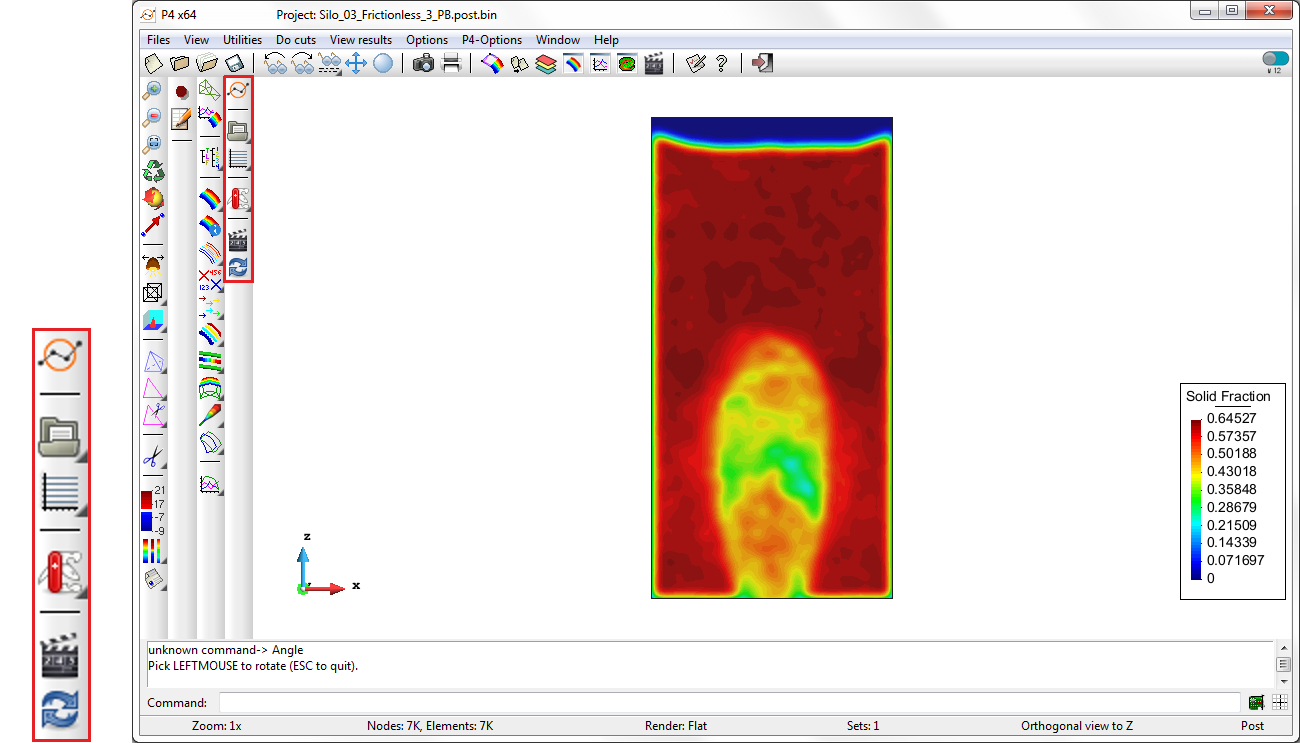
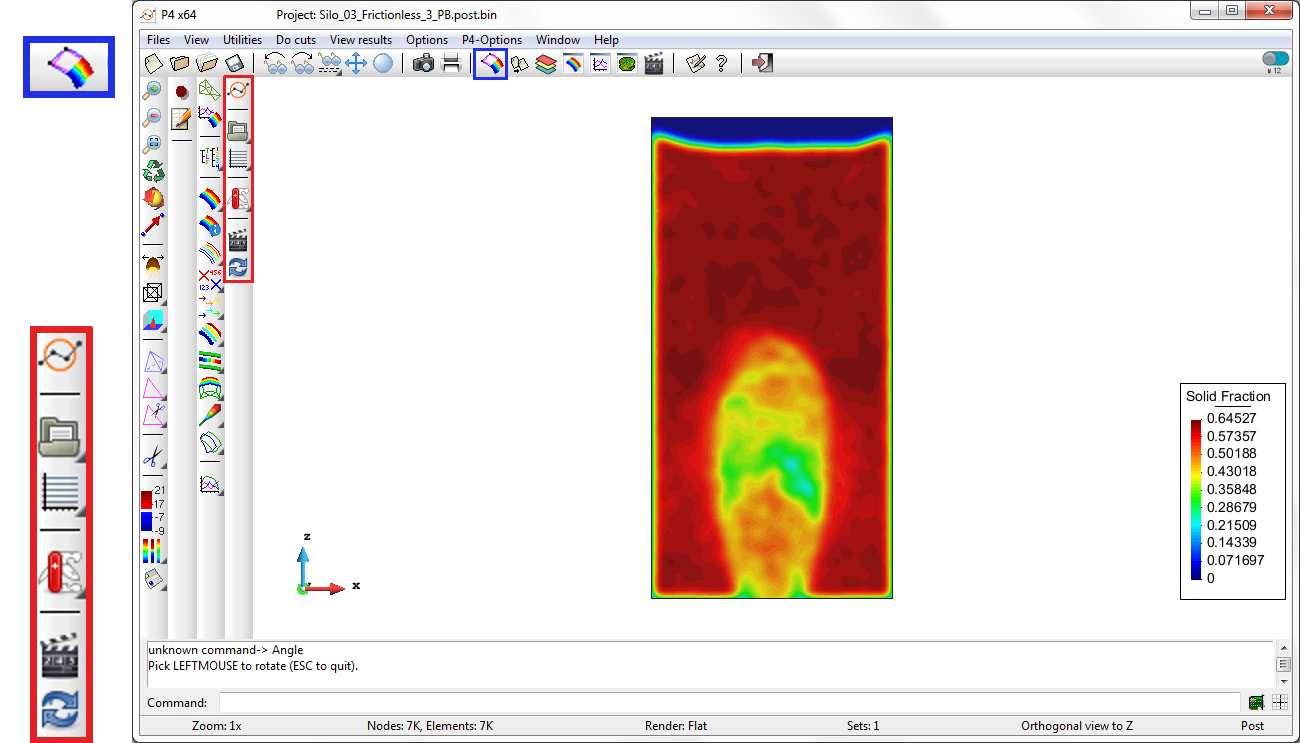
More docs tidying

diff --git a/manual/post/post_postprocessing.md b/manual/post/post_postprocessing.md
@@ -1,33 +1,30 @@
 # After post-processing: Analysis
 
-When the user start the GiD post-processor, GiD will display a new toolbar at the left of your GiD main screen, as shown in the Figure.
+Once the user has some results to analyse, they can activate the post-processing toolbar using the pre/post toggle button, highlighted with a blue border, below:
 
-![](img/post_postprocess_toolbar.png "Example of Particle-Analytics Toolbox")
+![](img/post_postprocess_toolbar.png "The Post-processing Toolbar")
 
-*Figure. Example of Particle-Analytics Toolbar for post-processing results.*
+*Figure. The Particle-Analytics Post-processing Toolbar and the Pre/Post Toggle Button*
 
-The description of the different commands in the post-process toolbar is shown below:
+The Post-processing toolbar is made up from the following ...
 
-
-| | |
 |:-------:|:------|
-| ![](img/PA_help.png)       | **Particle-Analytics help.** |
-| ![](img/post_open.png)     | **Load post-process file.** Show the list of result files available in the project. |
-| ![](img/post_graphs.png)   | **Graph manager.** Allows load/saving/manipulate of graph data. |
-| ![](img/toolbox.png)       | **Toolbox.** List of available routines for manipulation and export results. |
-| ![](img/post_animator.png) | **Animations tool.**  |
-| ![](img/post_refresh.png)  | **Change View Mode.** Change the view mode/rendering for particles visualization. |
-
+| ![](img/PA_help.png)       | **Particle-Analytics Documentation** |
+| ![](img/post_open.png)     | **Load post-process File** : Show the list of result files available in the project. |
+| ![](img/post_graphs.png)   | **Graph Manager** : Allows load/saving/manipulate of graph data. |
+| ![](img/toolbox.png)       | **Post-process Utilities** : List of available routines for manipulation and export results. |
+| ![](img/post_animator.png) | **Animations**  |
+| ![](img/post_refresh.png)  | **Change View Mode (Particles)** : Change the view mode/rendering for particles visualization. |
 
 
 #### Contents:
 
-* [Load post-process file](post_load_results.md)
+* [Load post-process File](post_load_results.md)
 * [Graph manager](post_graph_manager.md)
-* [Toolbox for analytrics](post_toolbox_analytics.md)
-* [Animations tool](post_animations.md)
-* [Change view mode](post_view_modes.md)
-* [Visualizing particles](post_view_particles.md)
-* [Visualizing averaged results](post_view_coarse_graining.md)
+* [Toolbox for analytics](post_toolbox_analytics.md)
+* [Animations](post_animations.md)
+* [Change View Mode](post_view_modes.md)
+* [Visualizing Particles](post_view_particles.md)
+* [Visualizing Averaged Results](post_view_coarse_graining.md)
 
 

diff --git a/manual/post/post_processing_control.md b/manual/post/post_processing_control.md
@@ -6,11 +6,17 @@ The process control within Particle-Analytics is defined by 3 main commands:
 * (![](img/pre_run_info.png)) show info, and 
 * (![](img/pre_run_stop.png)) cancel.
 
-* **Start Processing** : Initiate the processing of the simulation results. Check the settings and launch the process.
+#### Start Processing
 
-* **View Run Info** : Shows a window with the evolution of the process, as shown below.
+Initiate the processing of the simulation results. Check the settings and launch the process.
+
+#### Show Info 
+
+Shows a window with the evolution of the process, as shown below.
 
 ![](img/p4_run-info.png "Post-process output")
 
-* **Cancel Process** : Stop the execution. All the results generated thus far can be visualized in
+#### Cancel
+
+Stop the execution. All the results generated thus far can be visualized in
 the post-process.
